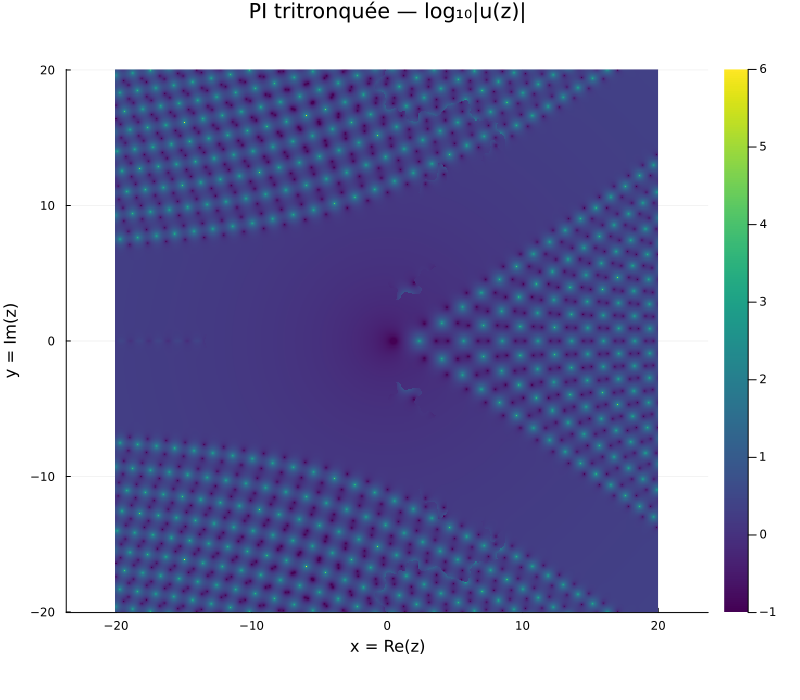
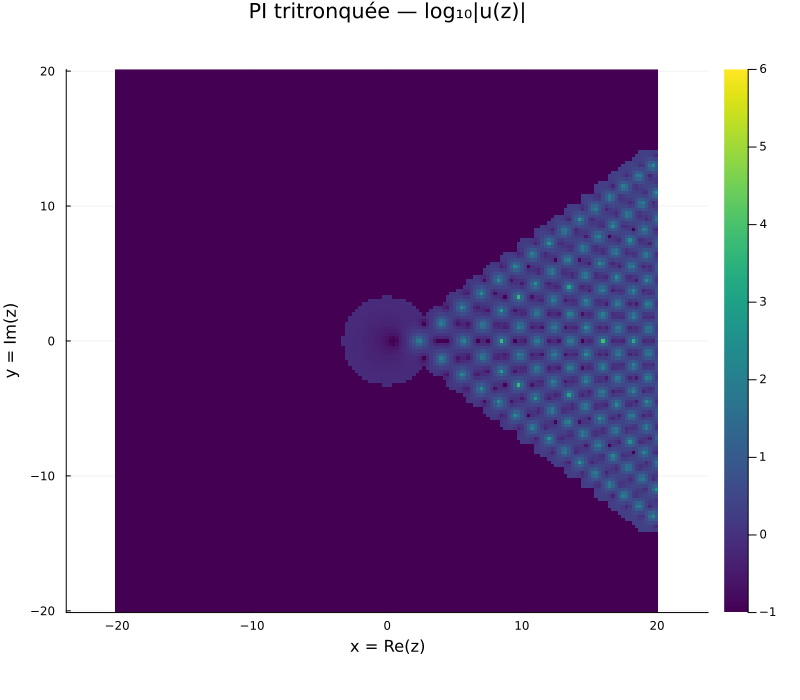
Re-render README hero with edge-gated solve — kill the walk-tree seams
The headline tritronquee_heatmap.png was generated by a bare
path_network_solve over the whole [-20,20]^2 window. That left the
artifact the issue reported: faint thread-like seams of elevated |u|
running through the pole-free sectors (the EdgeDetector mask flagged
them as spurious one-cell-wide pole fields). They are walk-tree seams
— the IVP path-network is unstable in smooth regions (FW 2011 md:401)
and accumulates error there, so the Stage-2 nearest-visited lookup
jumps where two regions meet. Worse, the old solve bloomed spurious
poles into the upper-left and lower-left sectors entirely.

Rewrite examples/tritronquee_3d.jl to use
edge_gated_pole_field_solve (worklog 028): region-growing from a seed
at the IC, admitting only edge-detector-confirmed pole-field cells
connected to the field already found. The IVP never targets a smooth
cell, so the seams never form. The result is the correct tritronquee
— poles confined to the single wedge around the positive real axis,
4645/25921 cells (~18%, matching FW Fig 4.7f), the other four-fifths
of the plane provably pole-free. The mask is now one clean wedge with
no threads.

README hero caption corrected: the old "they tile most of the plane"
was describing the spurious bloom; the poles are in one wedge and the
emptiness is the tritronquee's defining feature.

diff --git a/README.md b/README.md
@@ -4,7 +4,7 @@
 
 ![The Painlevé-I tritronquée solution in the complex plane](examples/tritronquee_heatmap.png)
 
-*Above: a solution of the first Painlevé equation, computed by this package. The bright dots are **poles** — points where the solution races off to infinity. They tile most of the plane in an intricate lattice, yet four wedge-shaped sectors stay perfectly empty. Ordinary numerical solvers cannot produce this picture at all. Read on for why, and how this one does.*
+*Above: the **tritronquée** solution of the first Painlevé equation, computed by this package. The bright dots are **poles** — points where the solution races off to infinity. They are packed into a single wedge around the positive real axis; the entire rest of the plane is **provably pole-free**. That emptiness is the whole point — it is what makes this solution famous — and it is exactly what a naïve solver gets wrong, flooding the empty sectors with spurious garbage. Ordinary numerical software cannot produce this picture at all. Read on for why, and how this one does.*
 
 ---
 
